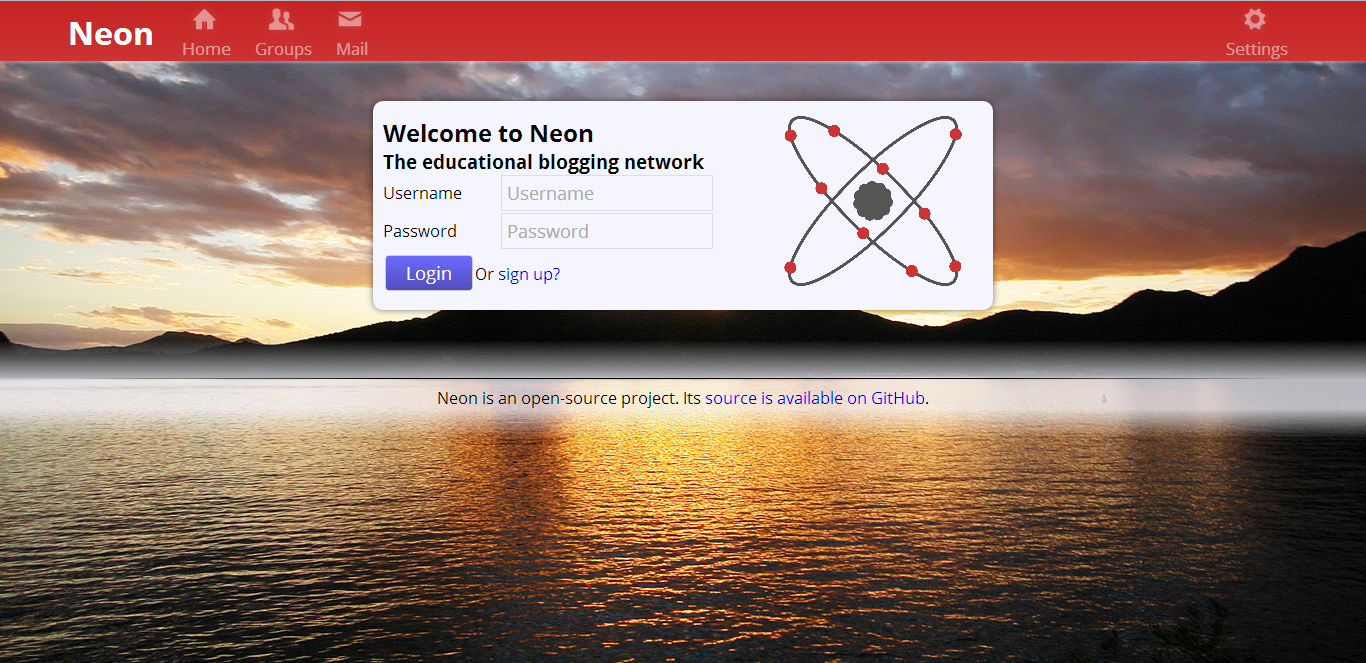
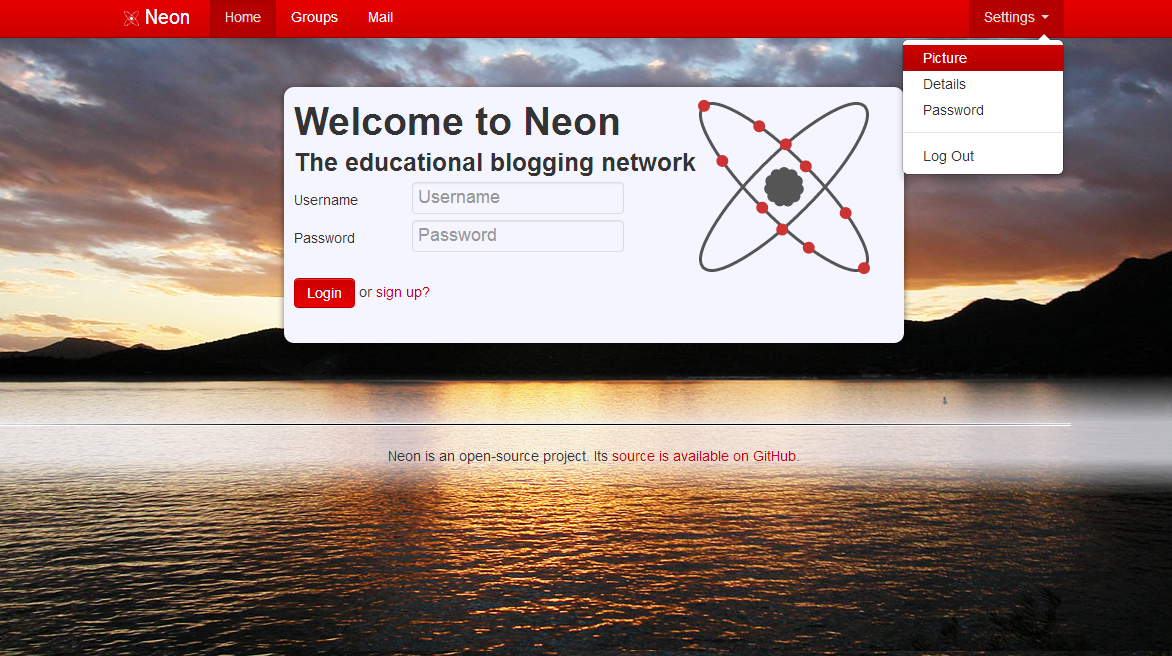
Changes to new client UI
Added a new bold logo (new_bold_logo.svg)
Updated screenshot
Improved new client UI

diff --git a/client/html/index-new.html b/client/html/index-new.html
@@ -47,7 +47,7 @@
                     <span class="icon-bar"></span>
                     <span class="icon-bar"></span>
                   </a>
-                  <a class="brand" href="#"><img src="../images/logo_bar.png" width="15" height="15" alt="Neon"> Neon</a>
+                  <a class="brand" href="#"><img src="../images/logo_bar.png" width="16" height="16" alt="Neon"> Neon</a>
                   <div class="nav-collapse collapse navbar-collapse">
                     <ul class="nav">
                       <li class="active"><a href="#">Home</a></li>
@@ -73,12 +73,12 @@
             
    <h1>&nbsp;</h1>
 			<p>&nbsp;</p>
-		<section id="loginbox">
+	<section id="loginbox">
 			<svg id="svgloginlogo" height="200" width="200" xmlns:xlink="http://www.w3.org/1999/xlink"  version="1.0"  xmlns="http://www.w3.org/2000/svg" viewBox="0 0 1000 1000">
 				<image x="0" y="0" height="1000" width="1000"  xlink:href="images/new_logo_animation_dark.svg"/>
 			</svg>
 			
-			<h1>Welcome to Neon</h1>
+		<h1>Welcome to Neon</h1>
 			<h3>The educational blogging network</h3>
 			<form id="login">
 				<div id="input_container"><div>Username</div><input type="text" id="login-username" placeholder="Username" required/></div>
@@ -104,8 +104,7 @@
 			</form>
 		</aside>
 		<footer id="footer" class="content">
-				<hr />
-				Neon is an open-source project. Its <a href="https://github.com/programmingthomas/neon-2013">source is available on GitHub</a>.
+			  Neon is an open-source project. Its <a href="https://github.com/programmingthomas/neon-2013">source is available on GitHub</a>.
 		</footer>
 		<script type="text/javascript" src="neonclient.js"></script>
 		<!--[if lt IE 9]>
